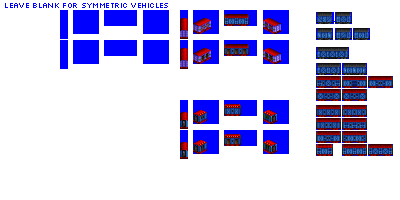
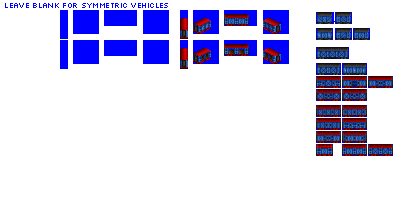
Change: sprites complete for gen 3A, 3B express cars

diff --git a/src/vehicles/express_cars.py b/src/vehicles/express_cars.py
@@ -42,7 +42,7 @@ def main():
                              base_numeric_id=1110,
                              gen=3,
                              subtype='A',
-                             sprites_complete=False)
+                             sprites_complete=True)
 
     consist.add_unit(type=ExpressCar,
                      vehicle_length=4,
@@ -52,7 +52,7 @@ def main():
                              base_numeric_id=1120,
                              gen=3,
                              subtype='B',
-                             sprites_complete=False)
+                             sprites_complete=True)
 
     consist.add_unit(type=ExpressCar,
                      vehicle_length=6,
